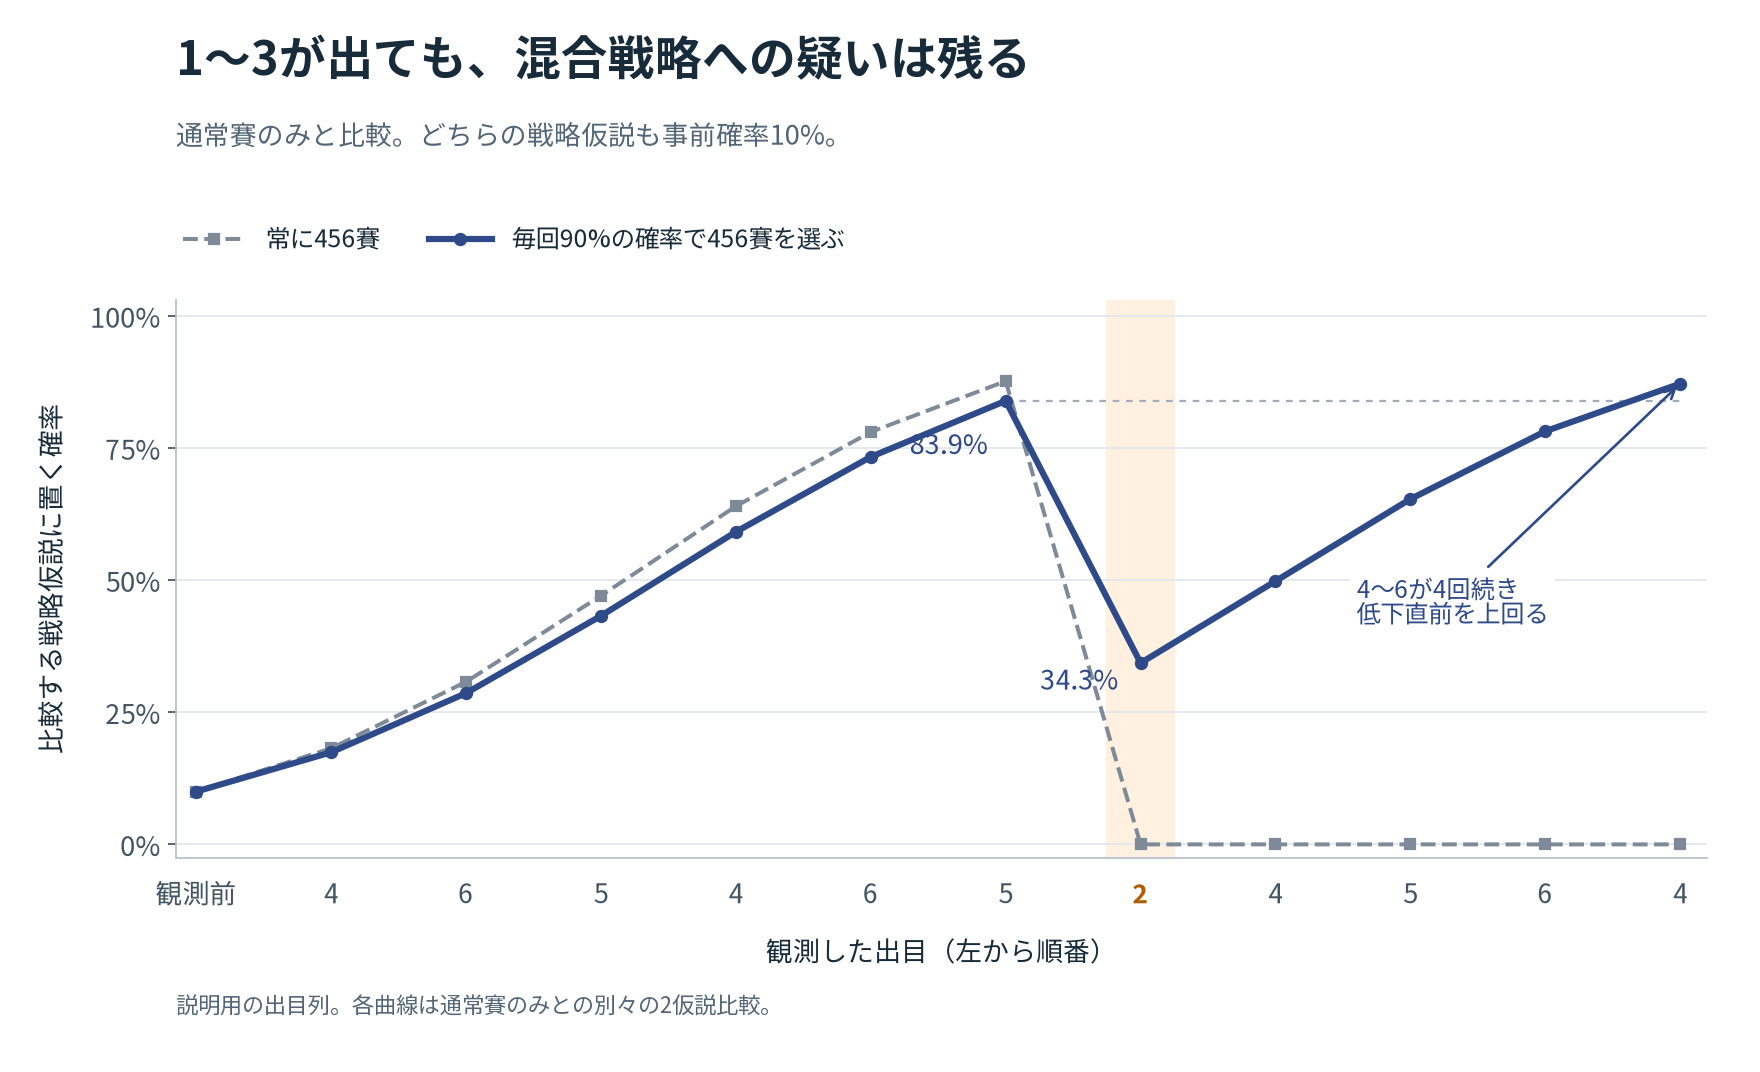
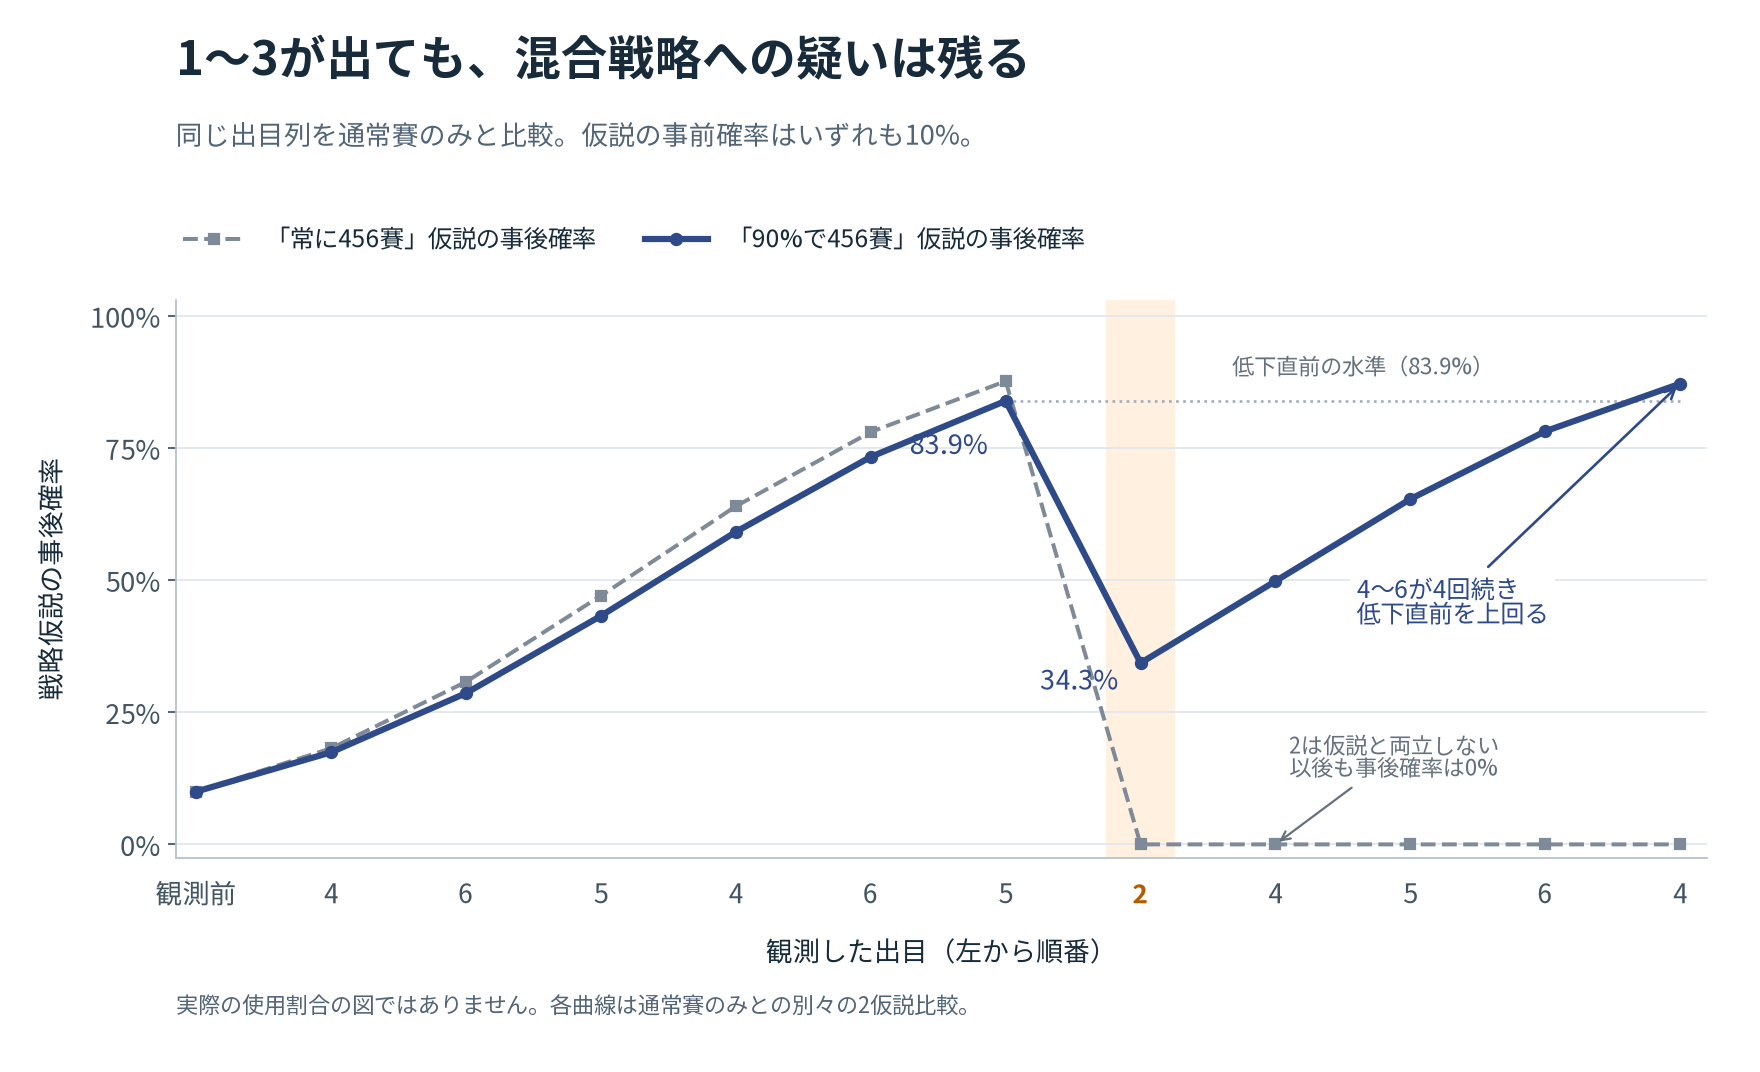
docs: clarify episode 3 posterior curves and reference line

diff --git a/articles/assets/plot_chinchiro_mixture.py b/articles/assets/plot_chinchiro_mixture.py
@@ -102,17 +102,21 @@ def comparison_figure(mixed, pure):
     fig.patch.set_facecolor("white")
     fig.text(.10, .93, "1〜3が出ても、混合戦略への疑いは残る", fontsize=21,
              fontweight="bold", ha="left")
-    fig.text(.10, .865, "通常賽のみと比較。どちらの戦略仮説も事前確率10%。",
+    fig.text(.10, .865, "同じ出目列を通常賽のみと比較。仮説の事前確率はいずれも10%。",
              fontsize=12, color="#526577", ha="left")
     ax.axvspan(6.75, 7.25, color="#fff0df", zorder=0)
     ax.plot(range(12), [float(p) for p in pure], color="#7e8a98",
             linestyle="--", marker="s", markersize=4.5, linewidth=1.8,
-            label="常に456賽", zorder=2)
+            label="「常に456賽」仮説の事後確率", zorder=2)
     ax.plot(range(12), [float(p) for p in mixed], color="#2e4a88",
             marker="o", markersize=5, linewidth=2.8,
-            label="毎回90%の確率で456賽を選ぶ", zorder=3)
-    ax.hlines(float(mixed[6]), 6, 11, color="#a3adb9", linewidth=1,
-              linestyle=(0, (3, 3)), zorder=1)
+            label="「90%で456賽」仮説の事後確率", zorder=3)
+    ax.hlines(float(mixed[6]), 6, 11, color="#a3adb9", linewidth=1.2,
+              linestyle=":", zorder=1)
+    ax.text(8.65, float(mixed[6]) + .045,
+            f"低下直前の水準（{decimal(mixed[6], percentage=True)}%）",
+            fontsize=10, color="#65717d", ha="center", va="bottom",
+            bbox={"facecolor": "white", "edgecolor": "none", "pad": 2})
     ax.set_xlim(-.15, 11.2)
     ax.set_ylim(-.025, 1.03)
     ax.set_xticks(range(12), ["観測前"] + [str(d) for d in OBSERVATIONS])
@@ -121,7 +125,7 @@ def comparison_figure(mixed, pure):
     ax.set_yticks([0, .25, .5, .75, 1])
     ax.yaxis.set_major_formatter(PercentFormatter(xmax=1, decimals=0))
     ax.set_xlabel("観測した出目（左から順番）", labelpad=14)
-    ax.set_ylabel("比較する戦略仮説に置く確率", labelpad=12)
+    ax.set_ylabel("戦略仮説の事後確率", labelpad=12)
     ax.legend(loc="lower left", bbox_to_anchor=(-.01, 1.05), ncol=2,
               frameon=False, fontsize=11, handlelength=2.6)
     ax.annotate("34.3%", xy=(7, float(mixed[7])), xytext=(-10, -12),
@@ -132,8 +136,12 @@ def comparison_figure(mixed, pure):
                 xytext=(8.6, .42), color="#2e4a88", fontsize=11,
                 arrowprops={"arrowstyle": "->", "color": "#2e4a88", "lw": 1.2},
                 bbox={"facecolor": "white", "edgecolor": "none", "pad": 3})
+    ax.annotate("2は仮説と両立しない\n以後も事後確率は0%", xy=(8, 0),
+                xytext=(8.1, .13), color="#65717d", fontsize=10,
+                arrowprops={"arrowstyle": "->", "color": "#65717d", "lw": 1},
+                bbox={"facecolor": "white", "edgecolor": "none", "pad": 3})
     style(ax)
-    fig.text(.10, .055, "説明用の出目列。各曲線は通常賽のみとの別々の2仮説比較。",
+    fig.text(.10, .055, "実際の使用割合の図ではありません。各曲線は通常賽のみとの別々の2仮説比較。",
              fontsize=10, color="#526577")
     fig.savefig(DESTINATION / "mixture-comparison.png", dpi=160, facecolor="white")
     plt.close(fig)

diff --git a/articles/chinchiro-bayes-03-mixture.md b/articles/chinchiro-bayes-03-mixture.md
@@ -76,7 +76,7 @@ $$
 
 通常賽も混ぜる分、4〜6の出やすさは100%から95%へ変わっています。観測した出目は同じでも、仮説が予測する出やすさが変わるため、更新量も変わります。
 
-## 第0回の出目列を、もう一度見てみる
+## 同じ出目列を、二つの仮説で読み直す
 
 次の出目列で、更新を繰り返してみます。
 
@@ -86,11 +86,30 @@ $$
 
 同じ記録に対して、「常に456賽」と「90%の確率で456賽を選ぶ戦略」を、それぞれ通常賽のみの仮説と比較します。どちらの比較も、戦略側の事前確率は10%です。
 
-![同じ出目列に対する二つの仮説比較。常に456賽という仮説は出目2で0になるが、90%で456賽を選ぶ戦略は約83.9%から約34.3%へ下がり、その後の4〜6で再び上昇する。](/images/chinchiro-bayes-03-mixture/mixture-comparison.png)
+観察者には、実際にどちらの賽が使われたかは分かりません。分かっているのは出目の記録です。その同じ記録を、二つの仮説比較に使います。
+
+:::message
+**図の線は、「実際に456賽を使った割合」ではなく、「記録を見た後、その戦略仮説に置く確率」です。**
+
+灰色線は、「最初からずっと456賽を使っていた」という説明への支持を示します。本当に常に456賽を使うなら2は出ません。だからこそ、記録に2が現れた時点で、その説明への確率が0になります。
+
+各戦略から別々の出目列を作って比べる図ではなく、**2を含む同じ出目列を、異なる仮説で評価する図**として見てください。
+:::
+
+![同じ出目列に対する二つの仮説比較。四角い点を結ぶ灰色破線は常に456賽を使う仮説で、出目2で0になる。青線の混合戦略は約83.9%から約34.3%へ下がり、その後の4〜6で再び上昇する。83.9%の高さにある細い灰色の水平点線は、青線の低下直前の水準を示す。](/images/chinchiro-bayes-03-mixture/mixture-comparison.png)
 
 *2本の線は、通常賽のみとの別々の2仮説比較です。3種類の仮説に同時に確率を割り当てた図ではありません。*
 
-「常に456賽」の線は、2が出たところで0になります。混合戦略の線は、約83.9%から約34.3%へ下がりますが、0にはなりません。
+図には、役割の違う2種類の灰色の線があります。
+
+- **四角い点を結んだ灰色の破線**：「常に456賽を使う」という仮説の確率の推移です。
+- **83.9%の高さにある細い灰色の水平点線**：青線が2を見る直前に達していた水準です。その後の回復を比べるための補助線です。
+
+「常に456賽」の線は、2が出たところで0になり、その後も0のままです。本当に常に456賽を使っているなら、2は出ません。この図では、2を含む同じ記録を見て「最初からずっと456賽だった」という仮説を評価しているため、その仮説では観測を説明できなくなります。
+
+その後に4〜6が続いても、「途中に2が出た」という過去の記録は残ります。全記録に対するこの仮説の尤度は0のままなので、事後確率も復活しません。「2が出た後から456賽へ持ち替えた」という説明を考えるなら、別の仮説を置く必要があります。
+
+一方、混合戦略では通常賽を使う場合も含めているため、2が出ても説明は残ります。青線は約83.9%から約34.3%へ下がりますが、0にはなりません。
 
 | 観測したところまで | 混合戦略に置く確率 |
 | --- | ---: |
